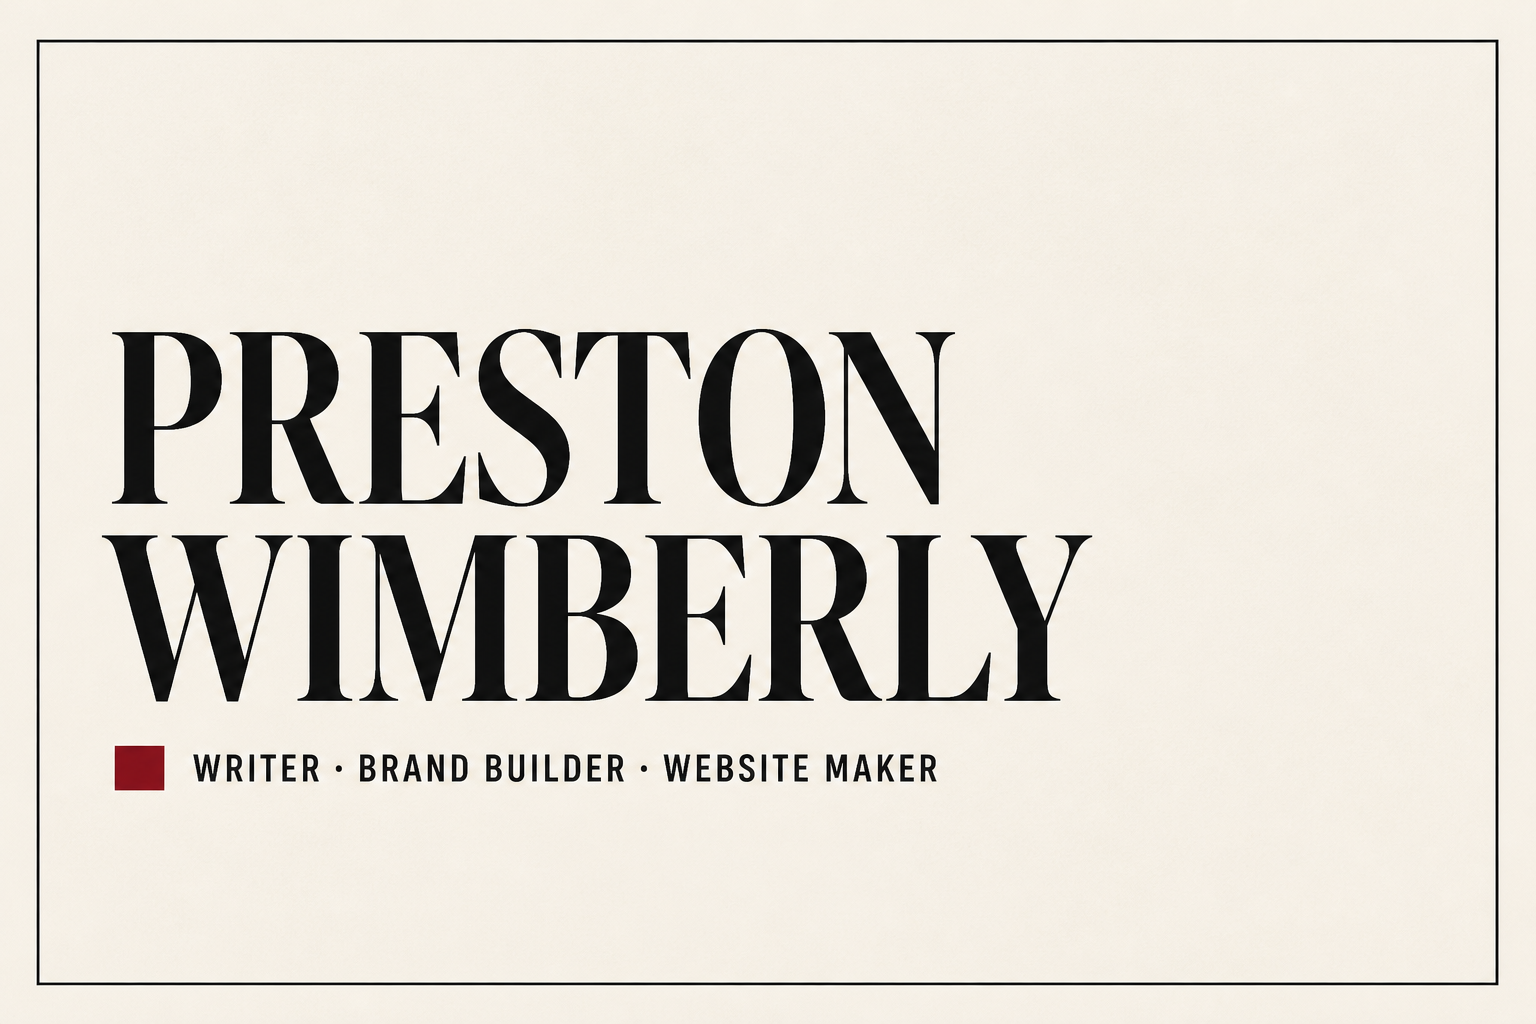
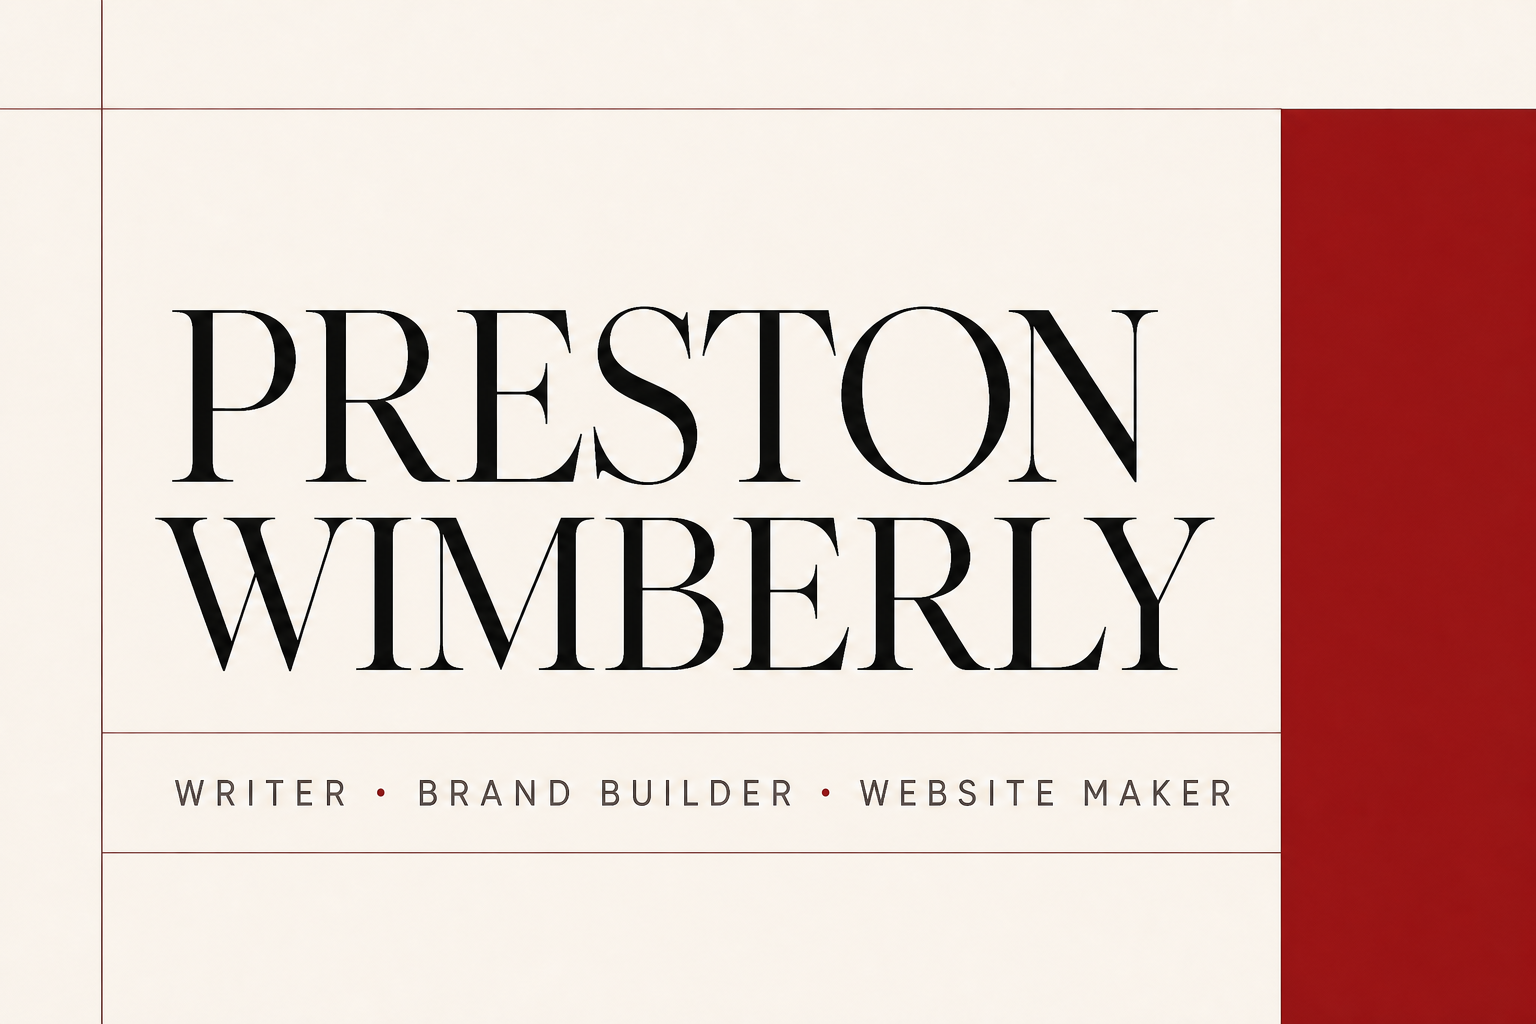
Refine portfolio editorial typography

diff --git a/app/globals.css b/app/globals.css
@@ -11,6 +11,10 @@
   --night-soft: #d8d0c3;
   --white: #f4efe6;
   --max: 1500px;
+  --font-display: "Grifo", "Grifinito", "Bodoni Moda", Didot, serif;
+  --font-body: "Chronicle Text G1", "Chronicle Text", "Source Serif 4", Georgia, serif;
+  --font-interface: "Ringside Regular A", "Ringside Regular B", "Ringside", "Verlag", "Source Sans 3", Arial, sans-serif;
+  --font-wordmark: "Pistilli Roman", "Bodoni Moda", Didot, serif;
 }
 
 * {
@@ -26,9 +30,9 @@ body {
   margin: 0;
   background: var(--paper);
   color: var(--ink);
-  font-family: var(--font-sans), Arial, sans-serif;
+  font-family: var(--font-body);
   font-size: 16px;
-  line-height: 1.55;
+  line-height: 1.6;
   text-rendering: optimizeLegibility;
   overflow-x: clip;
 }
@@ -36,6 +40,18 @@ body {
 a {
   color: inherit;
   text-decoration: none;
+}
+
+.skip-link,
+.site-nav,
+.text-link,
+.hero-visual figcaption,
+.practice-strip,
+.capability > p,
+.contact-section > a,
+.site-footer,
+.case-outcome a {
+  font-family: var(--font-interface);
 }
 
 .skip-link {
@@ -89,7 +105,7 @@ img {
 }
 
 .wordmark {
-  font-family: var(--font-serif), Georgia, serif;
+  font-family: var(--font-wordmark);
   font-size: 1.05rem;
   font-weight: 700;
   letter-spacing: -0.02em;
@@ -171,6 +187,7 @@ img {
 .case-meta dt,
 .writing-card > p,
 .next-project > p {
+  font-family: var(--font-interface);
   font-size: 0.75rem;
   font-weight: 700;
   letter-spacing: 0.14em;
@@ -179,9 +196,9 @@ img {
 }
 
 .hero h1 {
-  font-family: var(--font-serif), Georgia, serif;
+  font-family: var(--font-display);
   font-size: clamp(3.5rem, 6.3vw, 7.5rem);
-  font-weight: 500;
+  font-weight: 400;
   letter-spacing: -0.065em;
   line-height: 0.91;
   margin: 36px 0 60px;
@@ -214,7 +231,7 @@ img {
   border-bottom: 1px solid currentColor;
   display: inline-flex;
   flex-shrink: 0;
-  font-size: 0.72rem;
+  font-size: 0.75rem;
   font-weight: 700;
   gap: 24px;
   letter-spacing: 0.1em;
@@ -253,7 +270,7 @@ img {
 .hero-visual figcaption {
   bottom: 22px;
   color: var(--paper);
-  font-size: 0.64rem;
+  font-size: 0.75rem;
   font-weight: 700;
   left: 24px;
   letter-spacing: 0.12em;
@@ -304,9 +321,9 @@ img {
 .about-copy h2,
 .case-section h2,
 .deliverables h2 {
-  font-family: var(--font-serif), Georgia, serif;
+  font-family: var(--font-display);
   font-size: clamp(2.6rem, 5.3vw, 6.3rem);
-  font-weight: 500;
+  font-weight: 400;
   letter-spacing: -0.055em;
   line-height: 0.99;
   margin: -0.15em 0 0;
@@ -367,7 +384,9 @@ img {
 
 .project-copy {
   border-top: 1px solid var(--line);
+  min-width: 0;
   padding-top: 20px;
+  width: 100%;
 }
 
 .project-index {
@@ -380,12 +399,13 @@ img {
 }
 
 .project-copy h3 {
-  font-family: var(--font-serif), Georgia, serif;
+  font-family: var(--font-display);
   font-size: clamp(2.2rem, 4vw, 4.8rem);
-  font-weight: 500;
+  font-weight: 400;
   letter-spacing: -0.05em;
   line-height: 1;
   margin: 30px 0 24px;
+  overflow-wrap: anywhere;
 }
 
 .project-copy h3 a {
@@ -448,15 +468,15 @@ img {
 
 .capability > p {
   color: var(--night-soft);
-  font-size: 0.72rem;
+  font-size: 0.75rem;
   font-weight: 700;
   margin: 8px 0 0;
 }
 
 .capability h3 {
-  font-family: var(--font-serif), Georgia, serif;
+  font-family: var(--font-display);
   font-size: clamp(2rem, 3vw, 3.8rem);
-  font-weight: 500;
+  font-weight: 400;
   letter-spacing: -0.04em;
   line-height: 1;
   margin: 0;
@@ -503,9 +523,9 @@ img {
 }
 
 .writing-card h3 {
-  font-family: var(--font-serif), Georgia, serif;
+  font-family: var(--font-display);
   font-size: clamp(1.65rem, 2.6vw, 3rem);
-  font-weight: 500;
+  font-weight: 400;
   letter-spacing: -0.045em;
   line-height: 1.05;
   margin: 0;
@@ -582,9 +602,9 @@ img {
 }
 
 .contact-section h2 {
-  font-family: var(--font-serif), Georgia, serif;
+  font-family: var(--font-display);
   font-size: clamp(4rem, 10vw, 12rem);
-  font-weight: 500;
+  font-weight: 400;
   letter-spacing: -0.075em;
   line-height: 0.88;
   margin: auto 0 60px;
@@ -649,9 +669,9 @@ img {
 }
 
 .case-hero h1 {
-  font-family: var(--font-serif), Georgia, serif;
+  font-family: var(--font-display);
   font-size: clamp(3.6rem, 7.2vw, 8.5rem);
-  font-weight: 500;
+  font-weight: 400;
   letter-spacing: -0.075em;
   line-height: 0.89;
   margin: 40px 0 55px;
@@ -768,7 +788,7 @@ img {
 
 .case-pullquote p {
   color: var(--signal);
-  font-family: var(--font-serif), Georgia, serif;
+  font-family: var(--font-display);
   font-size: clamp(2.8rem, 5vw, 6.2rem);
   letter-spacing: -0.055em;
   line-height: 1;
@@ -824,9 +844,9 @@ img {
 
 .case-artifacts-heading h2,
 .case-outcome h2 {
-  font-family: var(--font-serif), Georgia, serif;
+  font-family: var(--font-display);
   font-size: clamp(2.8rem, 5vw, 6rem);
-  font-weight: 500;
+  font-weight: 400;
   letter-spacing: -0.055em;
   line-height: 0.99;
   margin: -0.15em 0 0;
@@ -935,7 +955,7 @@ img {
 .next-project a {
   align-items: baseline;
   display: flex;
-  font-family: var(--font-serif), Georgia, serif;
+  font-family: var(--font-display);
   font-size: clamp(3rem, 7vw, 8rem);
   gap: 40px;
   justify-content: space-between;

diff --git a/app/layout.tsx b/app/layout.tsx
@@ -1,17 +1,14 @@
 import type { Metadata } from "next";
-import { DM_Sans, Playfair_Display } from "next/font/google";
+import "@fontsource/bodoni-moda/latin-400.css";
+import "@fontsource/bodoni-moda/latin-400-italic.css";
+import "@fontsource/bodoni-moda/latin-600.css";
+import "@fontsource/source-serif-4/latin-400.css";
+import "@fontsource/source-serif-4/latin-400-italic.css";
+import "@fontsource/source-serif-4/latin-700.css";
+import "@fontsource/source-sans-3/latin-400.css";
+import "@fontsource/source-sans-3/latin-600.css";
+import "@fontsource/source-sans-3/latin-700.css";
 import "./globals.css";
-
-const sans = DM_Sans({
-  variable: "--font-sans",
-  subsets: ["latin"],
-});
-
-const serif = Playfair_Display({
-  variable: "--font-serif",
-  subsets: ["latin"],
-  style: ["normal", "italic"],
-});
 
 export const metadata: Metadata = {
   metadataBase: new URL("https://bright-cobbler-8f540b.netlify.app"),
@@ -46,7 +43,7 @@ export const metadata: Metadata = {
 export default function RootLayout({ children }: Readonly<{ children: React.ReactNode }>) {
   return (
     <html lang="en">
-      <body className={`${sans.variable} ${serif.variable}`}>{children}</body>
+      <body>{children}</body>
     </html>
   );
 }

diff --git a/design-system/preston-wimberly-portfolio/MASTER.md b/design-system/preston-wimberly-portfolio/MASTER.md
@@ -8,20 +8,22 @@ Contemporary editorial portfolio: confident, restrained, specific, and tactile. 
 
 | Role | Value |
 | --- | --- |
-| Paper | `#F1EFE8` |
-| Deep paper | `#E5E1D7` |
-| Ink | `#151713` |
-| Soft ink | `#55594F` |
-| Forest | `#172C24` |
-| Signal | `#FF5B35` |
+| Paper | `#F4EFE6` |
+| Deep paper | `#D8D0C3` |
+| Ink | `#0A0A0A` |
+| Soft ink | `#5F5A52` |
+| Oxblood | `#8B1A1A` |
 
-Use signal orange for emphasis and conversion moments. Use forest for a single strong inverted section. Avoid gradients, shadows, rounded cards, and generic corporate blue.
+Use oxblood for emphasis and conversion moments, always paired with warm ivory rather than black. Use ink for inverted sections. Avoid gradients, shadows, rounded cards, and generic corporate blue.
 
 ## Typography
 
-- Display: Playfair Display, medium weight, tight letter spacing.
-- Body and interface: DM Sans.
-- Labels: DM Sans, bold uppercase, wide letter spacing.
+- Display: Grifo and Grifinito. Until licensed webfont files are supplied, use Bodoni Moda as the embedded high-contrast serif fallback.
+- Body and editorial leads: Chronicle. Until licensed webfont files are supplied, use Source Serif 4 as the embedded editorial fallback.
+- Interface, navigation, and labels: Ringside and Verlag. Until licensed webfont files are supplied, use Source Sans 3 as the embedded sans-serif fallback.
+- Wordmark: Pistilli Roman, with Bodoni Moda as the embedded fallback to preserve high contrast and ball-terminal character.
+- Display: 400 weight with tight letter spacing; italic is reserved for deliberate emphasis.
+- Labels: 600–700, uppercase, with wide letter spacing.
 - Body copy stays at 16px or larger with at least 1.5 line-height.
 
 ## Layout
@@ -36,7 +38,7 @@ Use signal orange for emphasis and conversion moments. Use forest for a single s
 
 - Touch targets are at least 44px.
 - Hover transitions run 150–300ms and do not shift layout.
-- Keyboard focus uses a visible orange outline.
+- Keyboard focus uses a visible current-color outline.
 - Respect `prefers-reduced-motion`.
 
 ## Avoid
